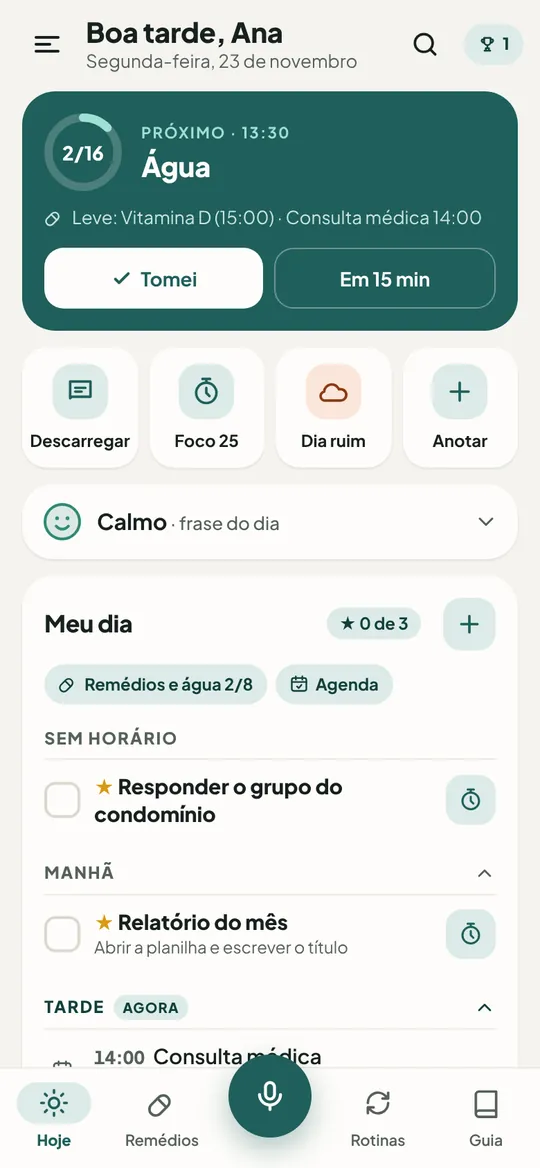
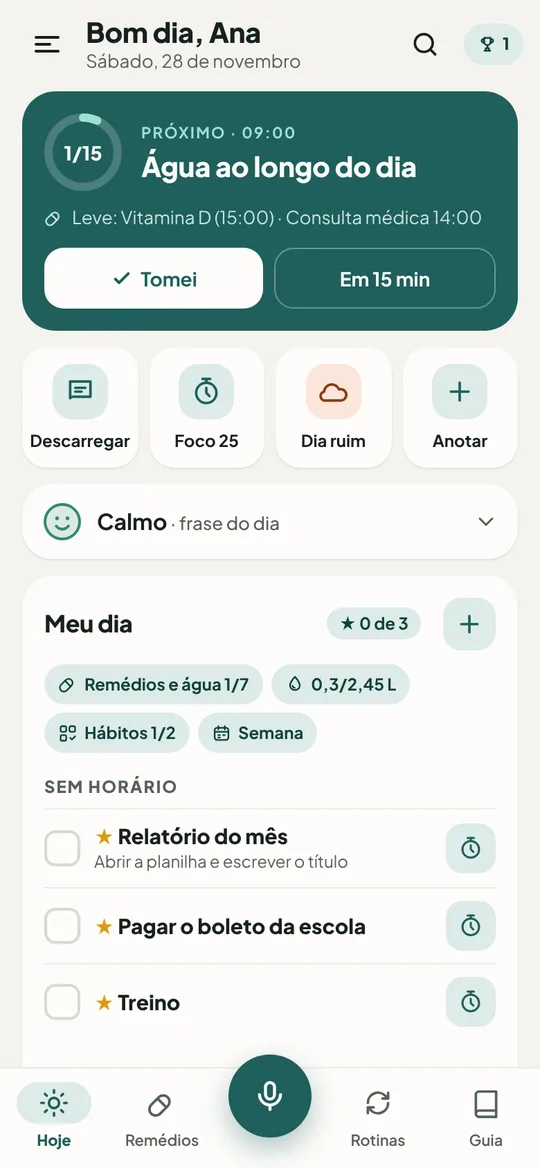
Tutorial: fotos novas do Hoje e do resumo da semana
Claude-Session: https://claude.ai/code/session_01Rs3GPLpWNhTN5yiAapCfrm

diff --git a/como-usar/index.html b/como-usar/index.html
@@ -243,7 +243,7 @@ const L = [
 ];
 const ALT = {
   'boas-vindas': 'Primeira tela do app: Vamos configurar, com os botões Começar, Já tenho um arquivo de perfil ou backup e Pular por agora',
-  hoje: 'Tela Hoje com o card Agora mostrando a água das 13:30, ações rápidas, humor e o Meu dia',
+  hoje: 'Tela Hoje: card Próximo com Água ao longo do dia, atalhos, humor Calmo e o Meu dia com Remédios e água 1/7, água 0,3 de 2,45 L, Hábitos 1/2, Semana e as 3 prioridades',
   'adicionar-ao-dia': 'Folha Adicionar ao dia com o campo do que fazer, a opção Uma das 3 prioridades e a escolha de manhã, tarde ou noite',
   humor: 'Humor Calmo aberto, com a frase do dia, a energia e as carinhas da semana',
   captura: 'Captura mágica com “dentista sexta 15h no centro” e as etiquetas de dia, local e categoria',
@@ -262,7 +262,7 @@ const ALT = {
   'rotina-detalhe': 'Rotina Lançamento da manhã com o botão Começar guiada e as opções Falar os passos e Avançar sozinho',
   calendario: 'Calendário dos próximos 7 dias com a consulta médica, tarefas com horário e a reunião de pais',
   'rotina-guiada': 'Rotina guiada no passo 3 de 8, com o disco de tempo, Pausar, Incluir passo, Voz e os próximos passos',
-  semana: 'Resumo da semana com tarefas concluídas, 3 do dia, remédios, humor e o dia que mais rendeu',
+  semana: 'Resumo da semana: 2 tarefas concluídas, 9 de 21 das 3 do dia, 78% de remédios e água, humor da semana, 3h45 de foco e os hábitos Academia 5 de 5 e Alongar 4 de 7',
   pontos: 'Tela Pontos e recompensas com nível 3, dias seguidos, moedas e recompensas',
   busca: 'Busca por “agua” mostrando resultados em Rotinas e no Guia',
   'ia-chave': 'Ajustes do assistente de IA com o passo a passo para criar a chave do Gemini',
